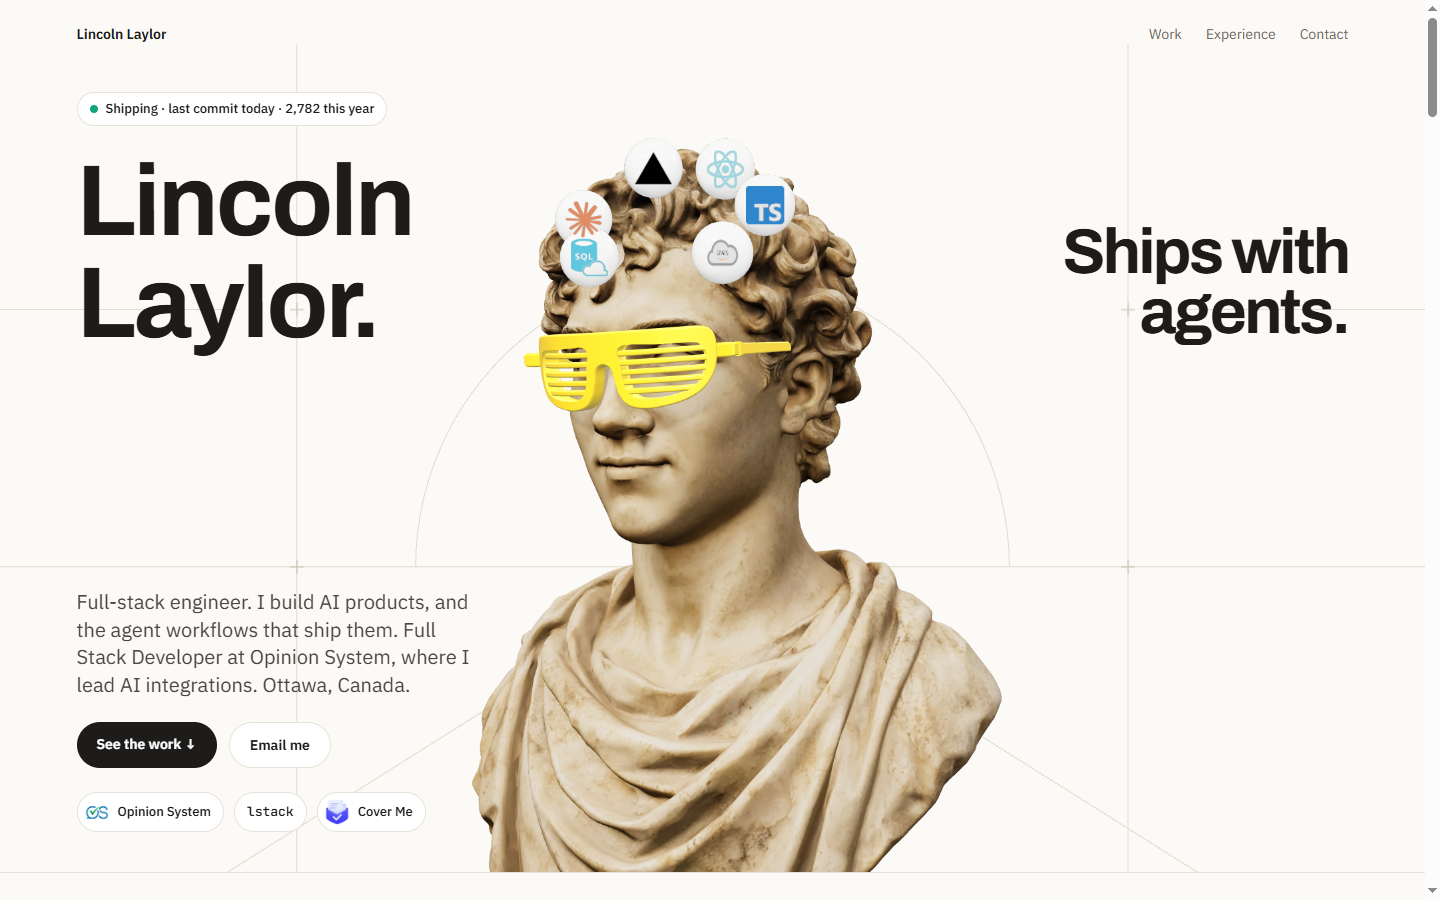
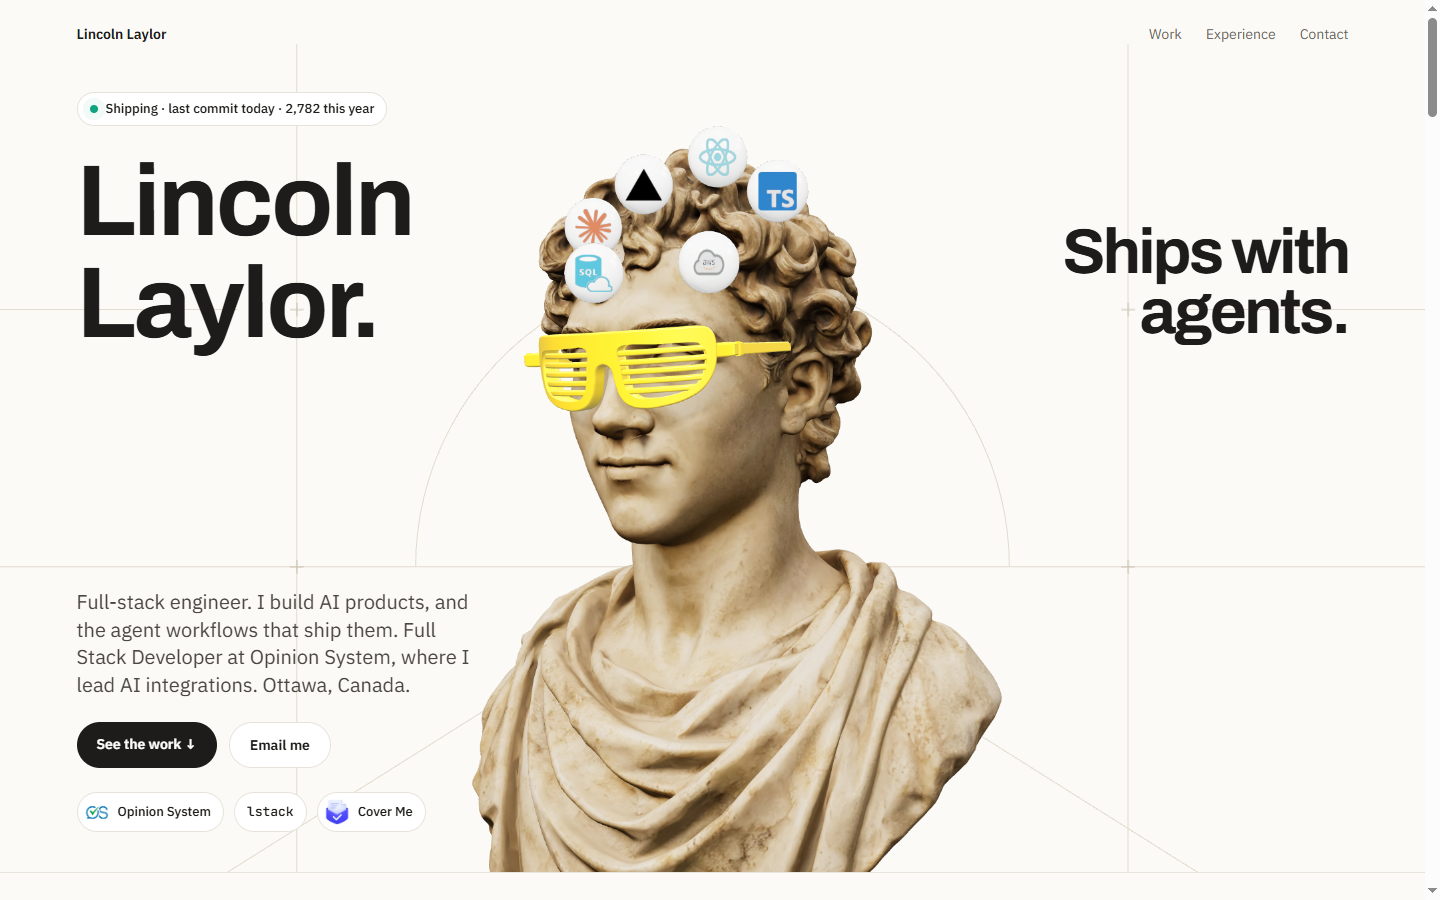
perf: hero bust stops drawing when nothing is moving; mouse, scroll, resize and load wake it

Changed region(s): [[0.375, 0.1556, 0.5625, 0.3422]]

diff --git a/components/hero/bustScene.ts b/components/hero/bustScene.ts
@@ -7,7 +7,7 @@ import { DRACOLoader } from "three/examples/jsm/loaders/DRACOLoader.js";
 import { RoomEnvironment } from "three/examples/jsm/environments/RoomEnvironment.js";
 import { TessellateModifier } from "three/examples/jsm/modifiers/TessellateModifier.js";
 import { RoundedBoxGeometry } from "three/examples/jsm/geometries/RoundedBoxGeometry.js";
-import { approach, drawOrder, followsPointer, isHead, needsRaycast, scrollProgress, thoughtPos, toNdc, yaw } from "@/lib/bustMotion";
+import { approach, drawOrder, followsPointer, isHead, needsRaycast, scrollProgress, thoughtPos, toNdc, yaw, isSettled } from "@/lib/bustMotion";
 import { bendPoint, frontOutline, insidePoly, lensOpening, restOffset, rowExtent, slatBars } from "@/lib/shades";
 
 const NEON = "#c4ab12"; // darker than it reads: lit faces land near #f5e12a without clipping
@@ -281,7 +281,15 @@ export function createBustScene(canvas: HTMLCanvasElement, opts: { onReady(): vo
     bust = root;
     draco.dispose();
     opts.onReady();
+    wake();
   }, undefined, () => draco.dispose());
+
+  let raf = 0;
+  let active = false;
+  // tick is a const declared below; wake only runs from events, after it exists.
+  const wake = () => {
+    if (active && !raf) raf = requestAnimationFrame(tick);
+  };
 
   // Only a mouse steers the bust; touch is scrolling the page. Client coords are kept, not NDC, so a scroll
   // under a resting mouse still updates what it is over.
@@ -291,11 +299,14 @@ export function createBustScene(canvas: HTMLCanvasElement, opts: { onReady(): vo
     pointer.mx = (e.clientX / innerWidth) * 2 - 1;
     pointer.x = e.clientX;
     pointer.y = e.clientY;
+    wake();
   };
   const onLeave = () => {
     pointer.x = pointer.y = NaN;
+    wake();
   };
   addEventListener("pointermove", onMove, { passive: true });
+  addEventListener("scroll", wake, { passive: true });
   document.documentElement.addEventListener("pointerleave", onLeave);
   addEventListener("blur", onLeave);
   const onLost = (e: Event) => {
@@ -310,6 +321,7 @@ export function createBustScene(canvas: HTMLCanvasElement, opts: { onReady(): vo
     r.setSize(w, h, false);
     cam.aspect = w / h;
     cam.updateProjectionMatrix();
+    wake();
   };
   const ro = new ResizeObserver(resize);
   ro.observe(canvas);
@@ -322,9 +334,9 @@ export function createBustScene(canvas: HTMLCanvasElement, opts: { onReady(): vo
   const last = { x: NaN, y: NaN, yaw: NaN };
   let over = 0;
   const cur = { p: scrollProgress(scrollY), mx: 0, hover: 0 };
-  let raf = 0;
   const tick = () => {
-    cur.p = approach(cur.p, scrollProgress(scrollY), 0.14);
+    const pTo = scrollProgress(scrollY);
+    cur.p = approach(cur.p, pTo, 0.14);
     cur.mx = approach(cur.mx, pointer.mx, 0.06);
     rig.rotation.y = yaw(cur.p, cur.mx);
     const look = { x: pointer.x, y: pointer.y + scrollY, yaw: rig.rotation.y };
@@ -360,12 +372,14 @@ export function createBustScene(canvas: HTMLCanvasElement, opts: { onReady(): vo
       logo.renderOrder = 11 + 2 * ranks[i];
     });
     r.render(scene, cam);
-    raf = requestAnimationFrame(tick);
+    // Stop drawing once nothing is moving; the listeners above wake it again.
+    raf = bust && isSettled({ p: cur.p, pTo, mx: cur.mx, mxTo: pointer.mx, hover: cur.hover, over }) ? 0 : requestAnimationFrame(tick);
   };
 
   return {
     setActive(on: boolean) {
-      if (on && !raf) raf = requestAnimationFrame(tick);
+      active = on;
+      wake();
       if (!on && raf) {
         cancelAnimationFrame(raf);
         raf = 0;
@@ -375,6 +389,7 @@ export function createBustScene(canvas: HTMLCanvasElement, opts: { onReady(): vo
       cancelAnimationFrame(raf);
       raf = 0;
       removeEventListener("pointermove", onMove);
+      removeEventListener("scroll", wake);
       document.documentElement.removeEventListener("pointerleave", onLeave);
       removeEventListener("blur", onLeave);
       canvas.removeEventListener("webglcontextlost", onLost);

diff --git a/lib/bustMotion.test.ts b/lib/bustMotion.test.ts
@@ -1,6 +1,6 @@
 import { test } from "node:test";
 import assert from "node:assert/strict";
-import { drawOrder, followsPointer, isHead, needsRaycast, scrollProgress, thoughtPos, toNdc, yaw } from "./bustMotion.ts";
+import { drawOrder, followsPointer, isHead, needsRaycast, scrollProgress, thoughtPos, toNdc, yaw, isSettled } from "./bustMotion.ts";
 
 test("yaw: turned toward the name at the top, facing forward after 40% of the scroll", () => {
   assert.equal(yaw(0, 0), -0.55);
@@ -51,4 +51,14 @@ test("needsRaycast: skip the expensive hit test when nothing moved", () => {
   assert.equal(needsRaycast(a, { ...a, x: 11 }), true);
   assert.equal(needsRaycast(a, { ...a, yaw: 0.1005 }), false);
   assert.equal(needsRaycast(a, { ...a, yaw: 0.105 }), true);
+});
+
+test("isSettled: nothing left to animate once the turn and swing have caught up and the bubbles are tucked away", () => {
+  const still = { p: 1, pTo: 1, mx: 0.5, mxTo: 0.5, hover: 0, over: 0 };
+  assert.equal(isSettled(still), true);
+  assert.equal(isSettled({ ...still, p: 0.9 }), false); // still turning from a scroll
+  assert.equal(isSettled({ ...still, mx: 0.49 }), false); // still swinging toward the mouse
+  assert.equal(isSettled({ ...still, mx: 0.49999 }), true); // close enough that no pixel moves
+  assert.equal(isSettled({ ...still, hover: 0.3 }), false); // bubbles still sinking back in
+  assert.equal(isSettled({ ...still, hover: 1, over: 1 }), false); // bubbles out and bobbing
 });

diff --git a/lib/bustMotion.ts b/lib/bustMotion.ts
@@ -46,3 +46,8 @@ type Look = { x: number; y: number; yaw: number };
 /** The triangle hit test is costly; redo it only when the pointer moved or the bust turned noticeably. */
 export const needsRaycast = (last: Look, now: Look) =>
   last.x !== now.x || last.y !== now.y || Math.abs(last.yaw - now.yaw) > 1e-3;
+
+/** Nothing on screen will change next frame: scroll turn and mouse swing have caught up, and the bubbles are
+ *  tucked away (while out they bob every frame). Lets the scene stop drawing until something moves. */
+export const isSettled = (s: { p: number; pTo: number; mx: number; mxTo: number; hover: number; over: number }) =>
+  !s.over && s.hover < 1e-3 && Math.abs(s.p - s.pTo) < 1e-4 && Math.abs(s.mx - s.mxTo) < 1e-4;
